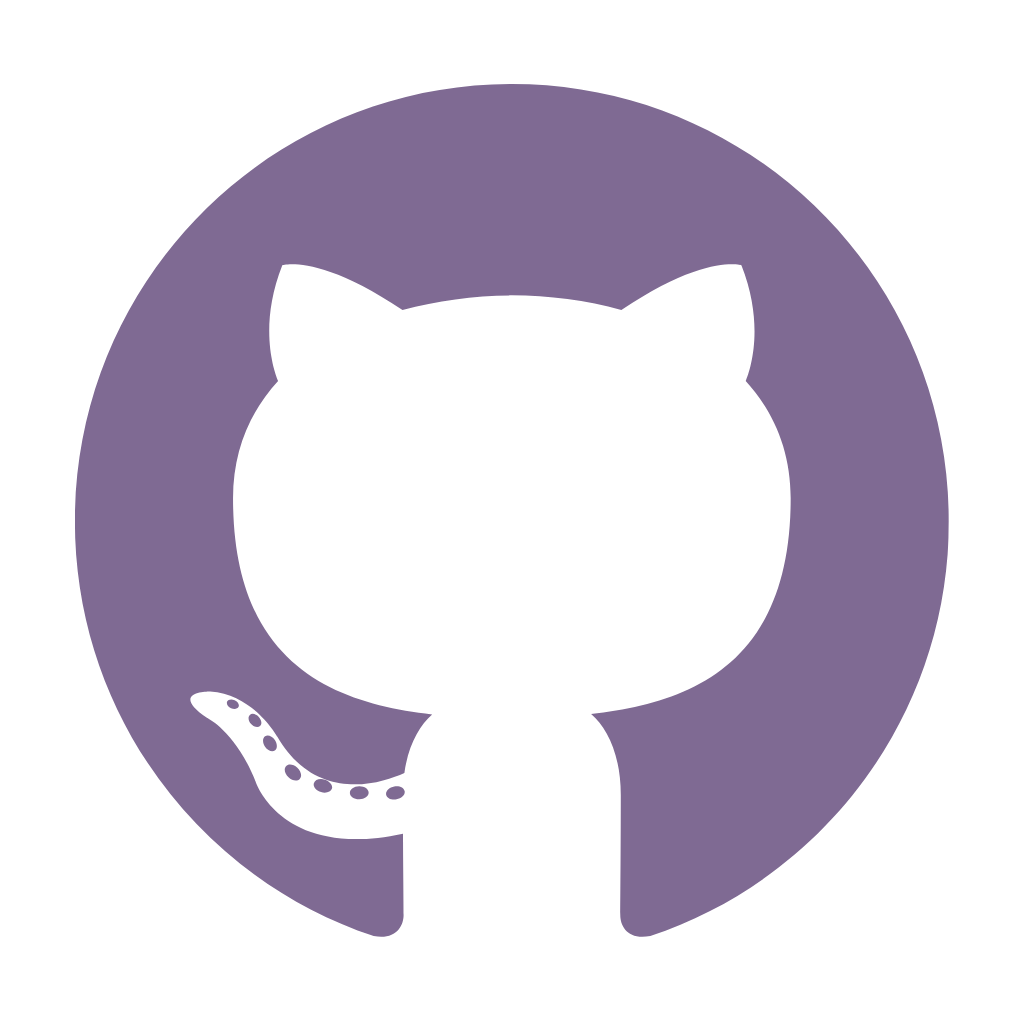
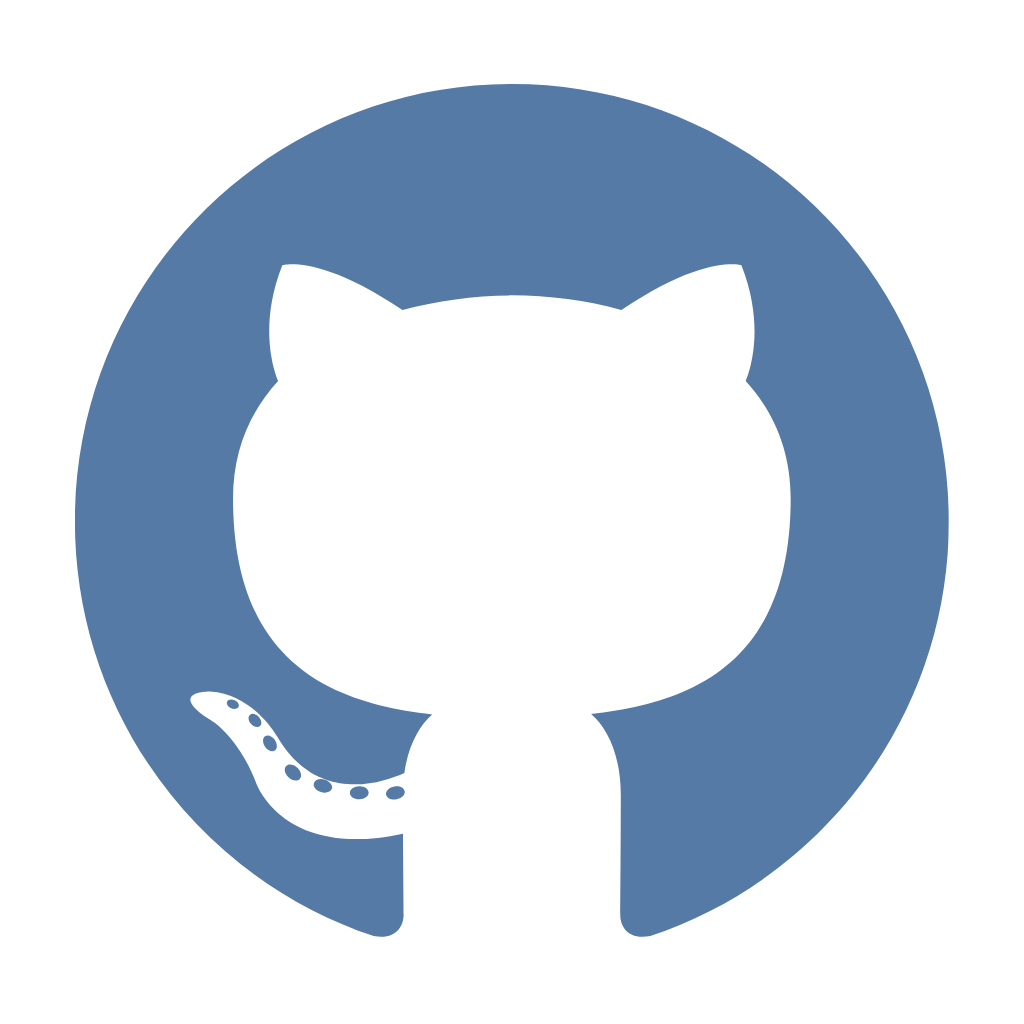
switched out the purple

diff --git a/app.js b/app.js
@@ -8,10 +8,10 @@ const skillsLink = document.getElementById("skills")
 const projectsLink = document.getElementById("projects")
 const contactLink = document.getElementById("contact")
 
-aboutLink.style.color = "#7F6A93"
+aboutLink.style.color = "#547AA5"
 
 aboutLink.addEventListener("click", function(e) {
-    aboutLink.style.color = "#7F6A93"
+    aboutLink.style.color = "#547AA5"
     skillsLink.style.color = "#282828"
     projectsLink.style.color = "#282828"
     contactLink.style.color = "#282828"
@@ -19,7 +19,7 @@ aboutLink.addEventListener("click", function(e) {
 
 skillsLink.addEventListener("click", function(e) {
     aboutLink.style.color = "#282828"
-    skillsLink.style.color = "#7F6A93"
+    skillsLink.style.color = "#547AA5"
     projectsLink.style.color = "#282828"
     contactLink.style.color = "#282828"
 })
@@ -27,7 +27,7 @@ skillsLink.addEventListener("click", function(e) {
 projectsLink.addEventListener("click", function(e) {
     aboutLink.style.color = "#282828"
     skillsLink.style.color = "#282828"
-    projectsLink.style.color = "#7F6A93"
+    projectsLink.style.color = "#547AA5"
     contactLink.style.color = "#282828"
 })
 
@@ -35,12 +35,12 @@ contactLink.addEventListener("click", function(e) {
     aboutLink.style.color = "#282828"
     skillsLink.style.color = "#282828"
     projectsLink.style.color = "#282828"
-    contactLink.style.color = "#7F6A93"
+    contactLink.style.color = "#547AA5"
 })
 
 
 aboutSection.addEventListener("mouseover", function (e) {
-    aboutLink.style.color = "#7F6A93"
+    aboutLink.style.color = "#547AA5"
     skillsLink.style.color = "#282828"
     projectsLink.style.color = "#282828"
     contactLink.style.color = "#282828"
@@ -48,7 +48,7 @@ aboutSection.addEventListener("mouseover", function (e) {
 
 skillsSection.addEventListener("mouseover", function (e) {
     aboutLink.style.color = "#282828"
-    skillsLink.style.color = "#7F6A93"
+    skillsLink.style.color = "#547AA5"
     projectsLink.style.color = "#282828"
     contactLink.style.color = "#282828"
 })
@@ -56,7 +56,7 @@ skillsSection.addEventListener("mouseover", function (e) {
 projectSection.addEventListener("mouseover", function (e) {
     aboutLink.style.color = "#282828"
     skillsLink.style.color = "#282828"
-    projectsLink.style.color = "#7F6A93"
+    projectsLink.style.color = "#547AA5"
     contactLink.style.color = "#282828"
 })
 
@@ -64,5 +64,5 @@ contactSection.addEventListener("mouseover", function (e) {
     aboutLink.style.color = "#282828"
     skillsLink.style.color = "#282828"
     projectsLink.style.color = "#282828"
-    contactLink.style.color = "#7F6A93"
+    contactLink.style.color = "#547AA5"
 })
